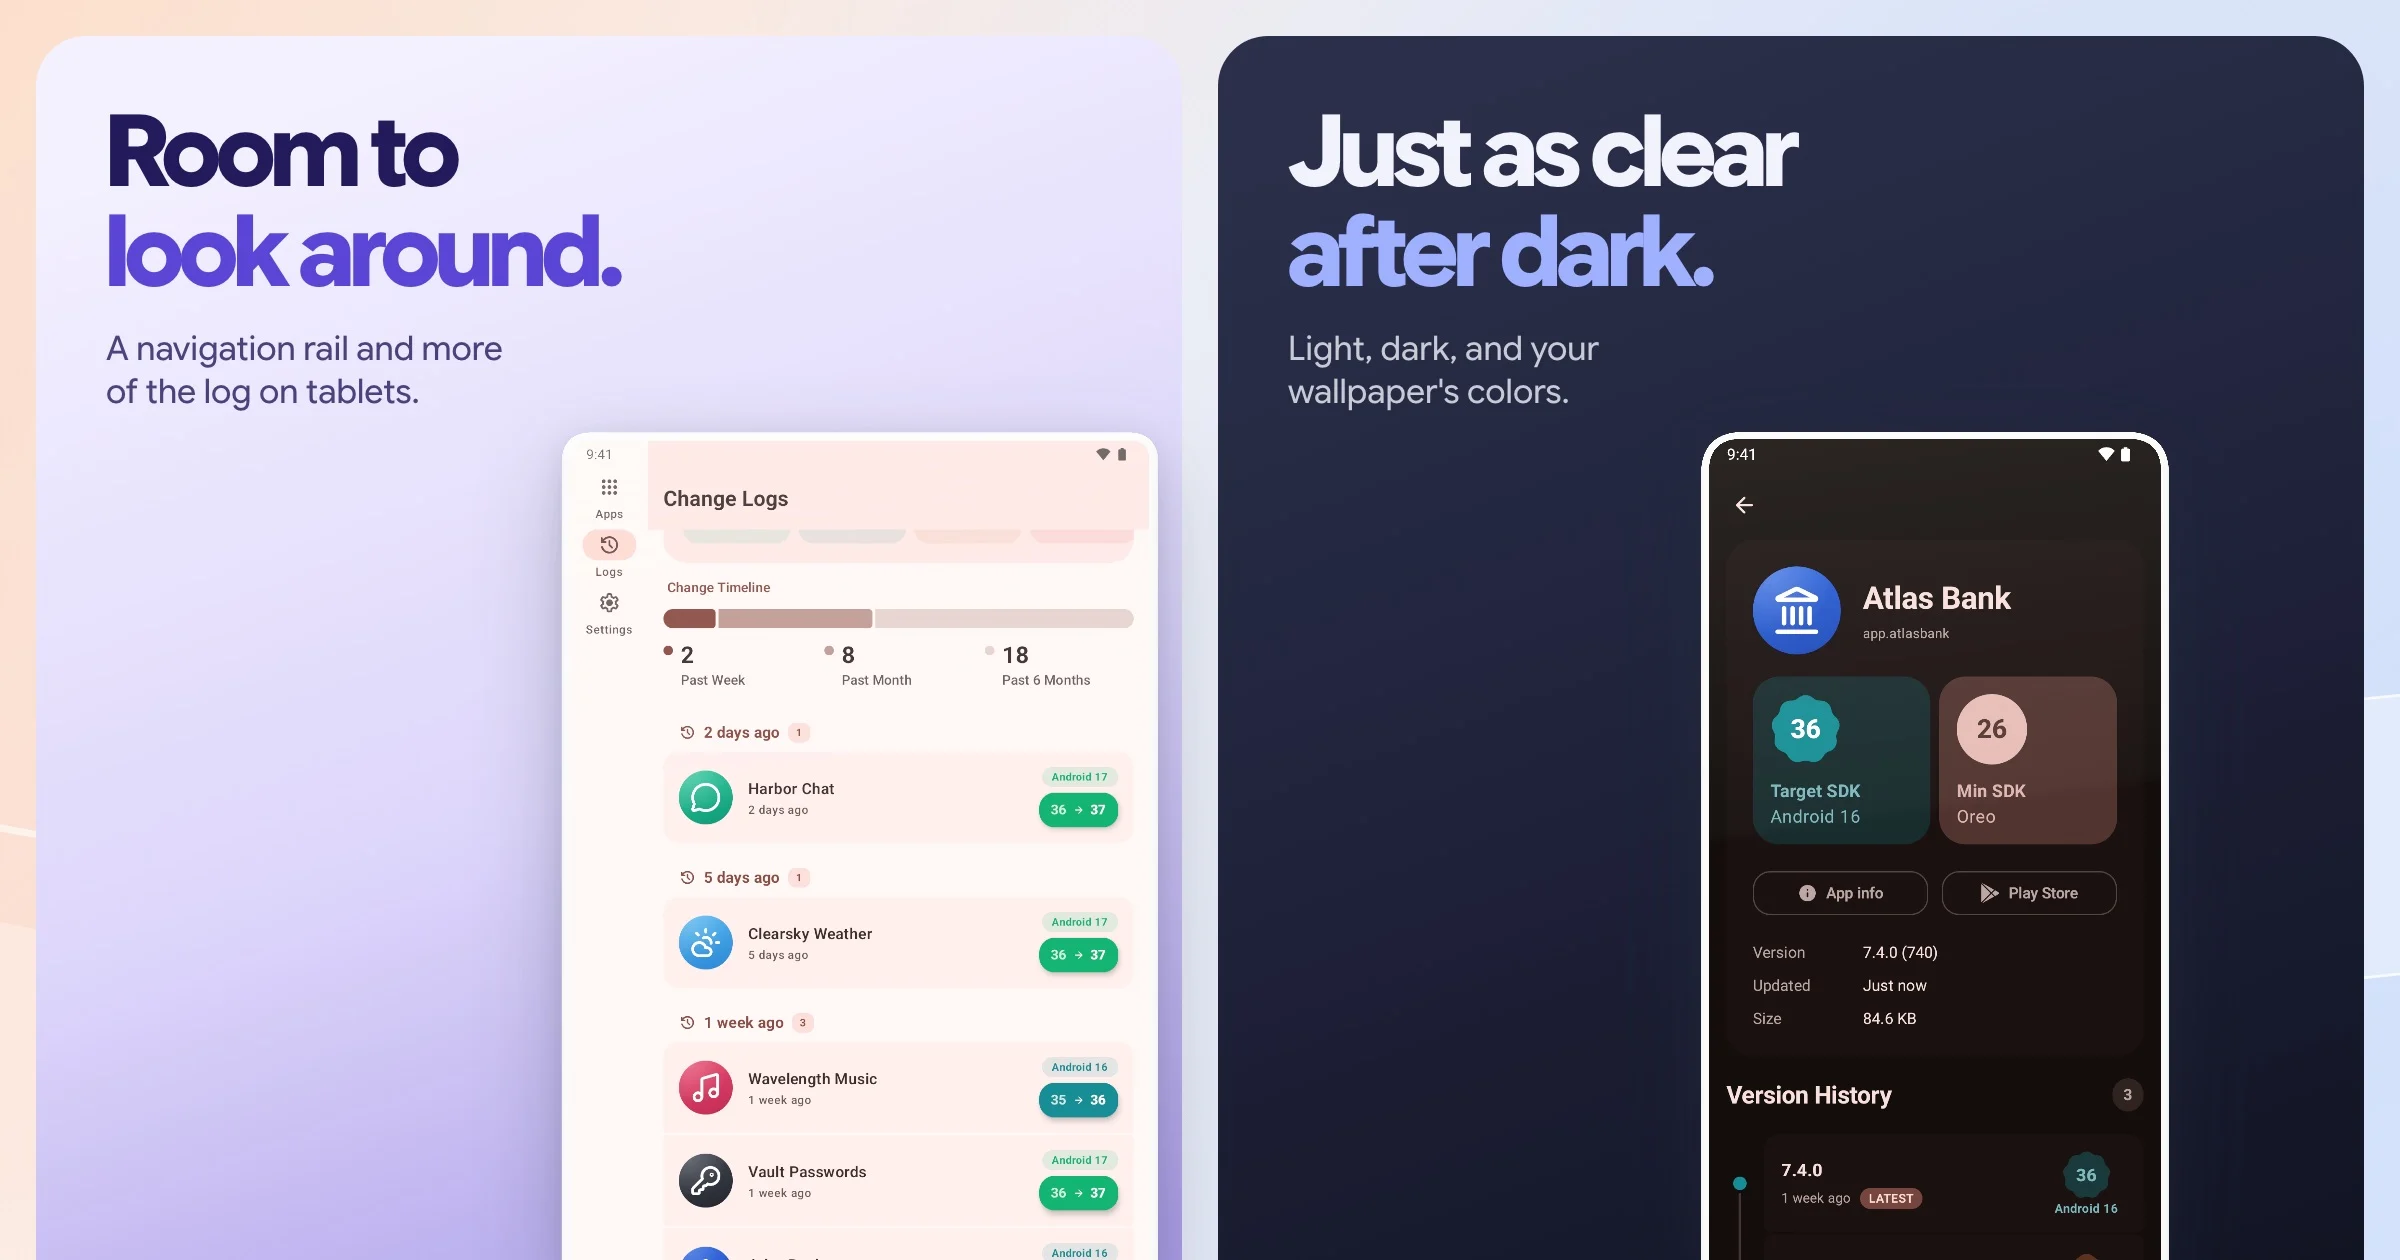
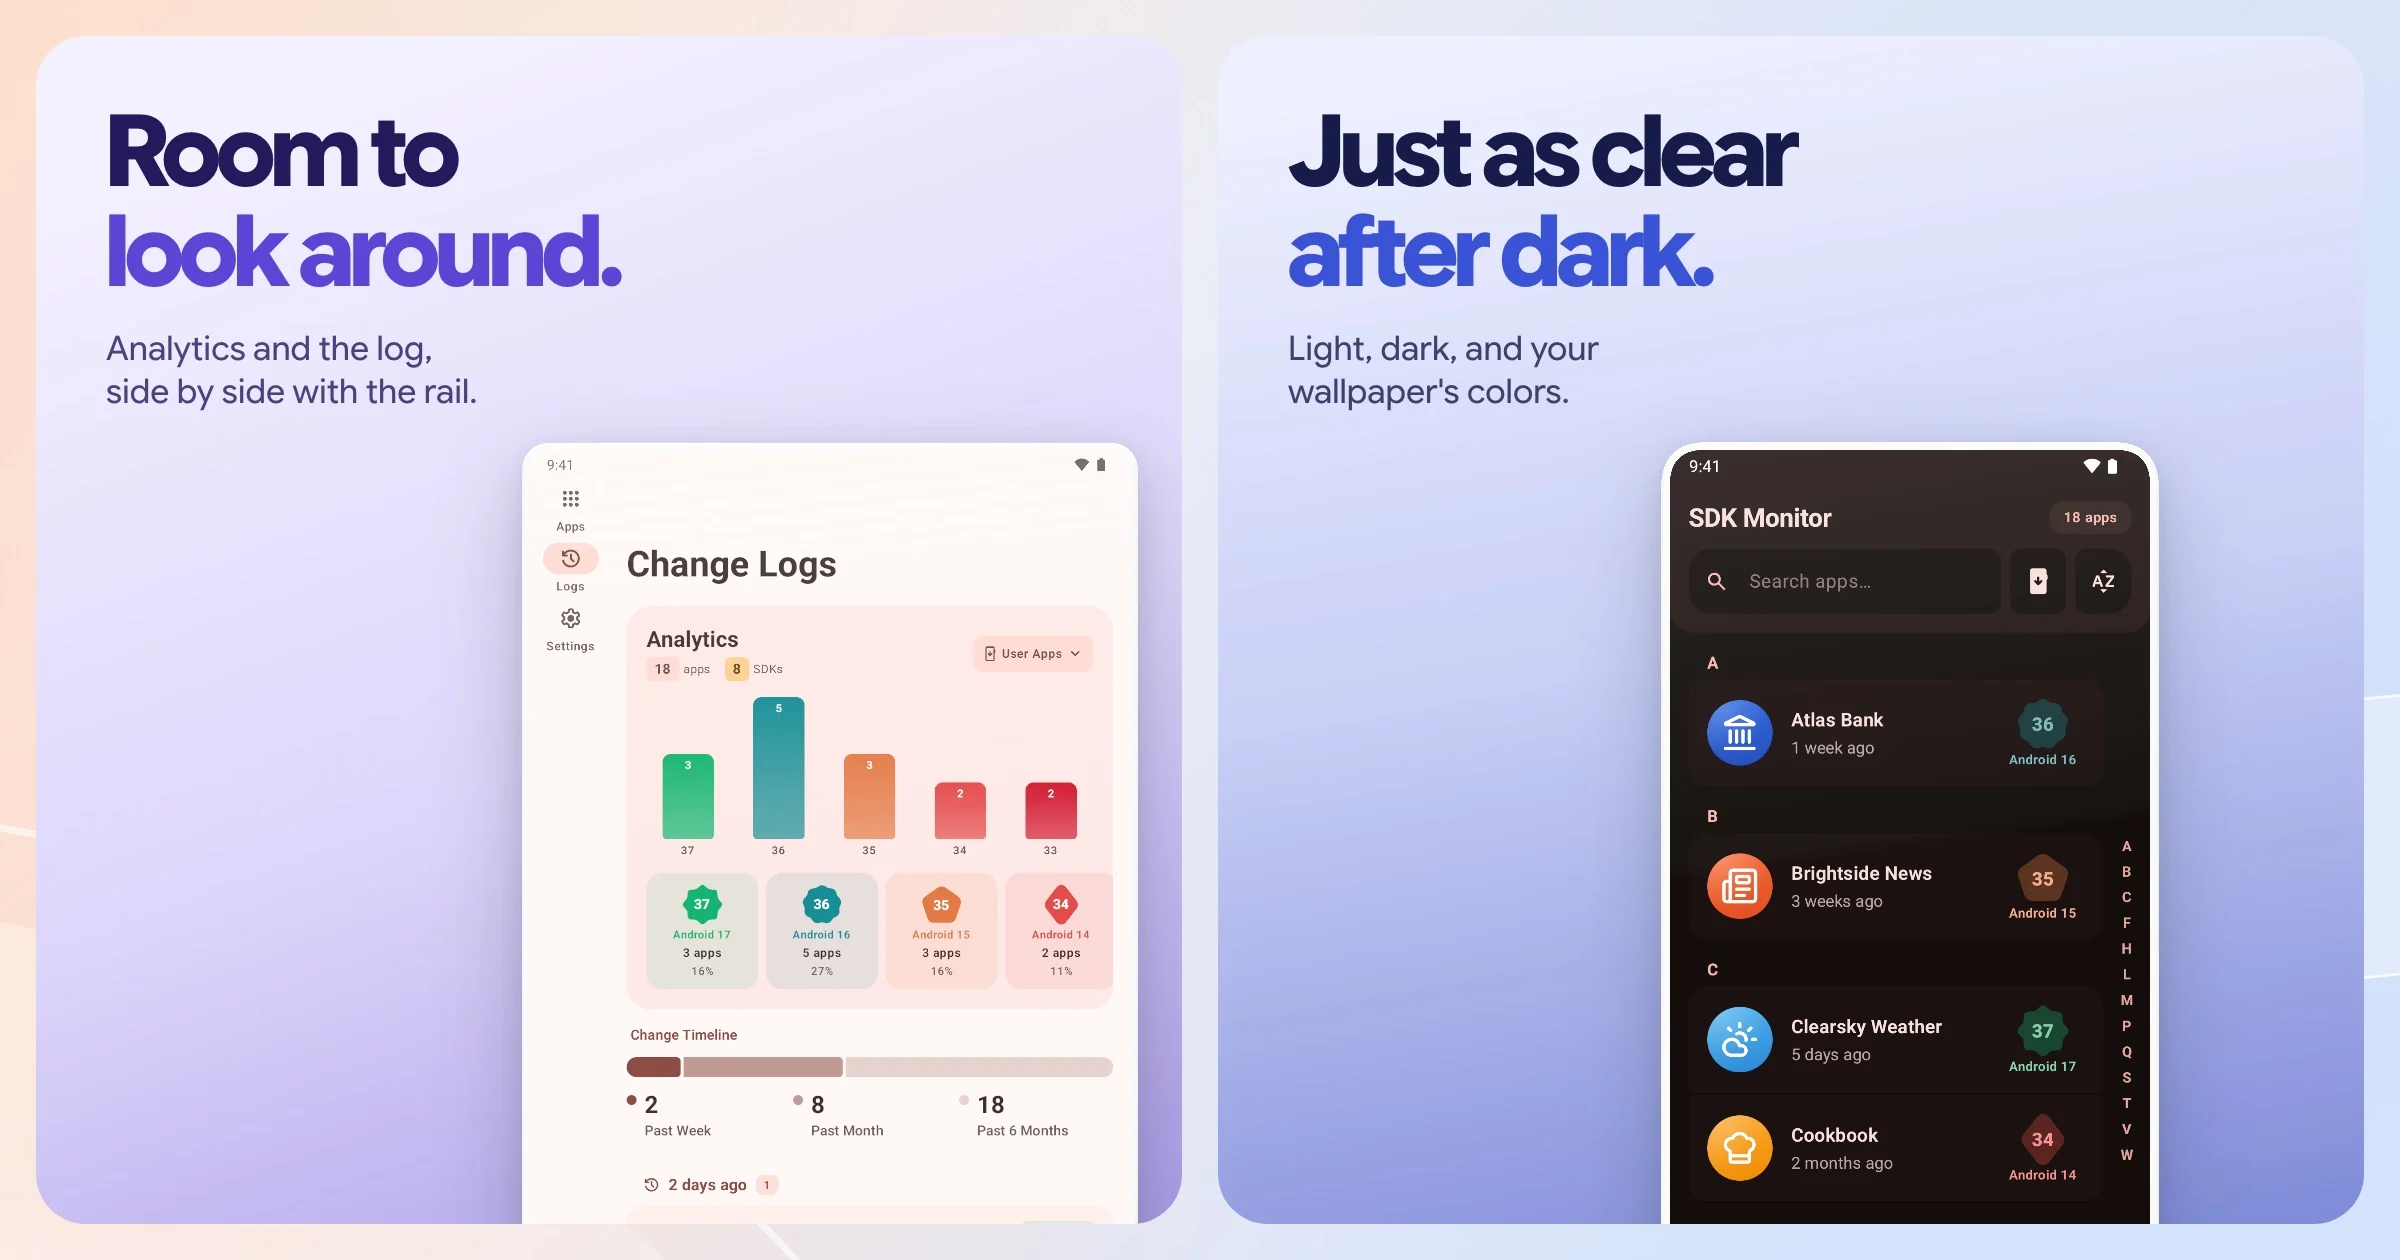
SDK Monitor images on inset panels, with the analytics tablet and the dark app list

diff --git a/lib/apps.ts b/lib/apps.ts
@@ -166,7 +166,7 @@ export const apps: AppData[] = [
       { file: "hero", alt: "SDK analytics, the app list with every app's target SDK, and an app's details" },
       { file: "tools", alt: "SDK analytics by Android version, the change log, and an app's version history" },
       { file: "before-after", alt: "SDK Monitor in 2019 beside today: the app list and an app's details" },
-      { file: "big-screen", alt: "The change log on a tablet, and an app's details in dark mode on a phone" },
+      { file: "big-screen", alt: "SDK analytics on a tablet, and the app list in dark mode on a phone" },
     ],
   },
   {
